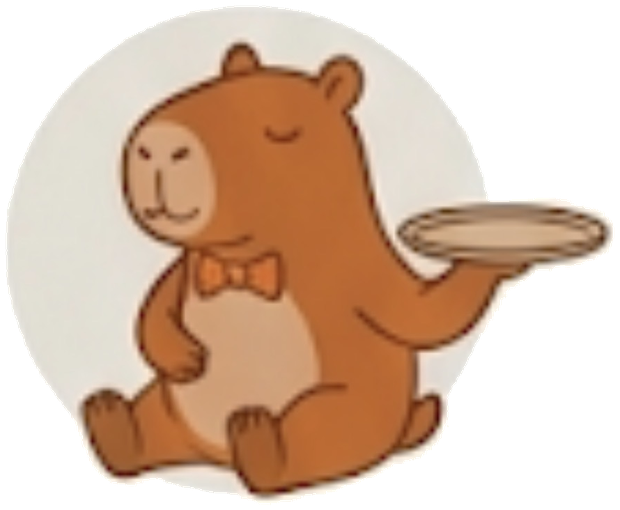
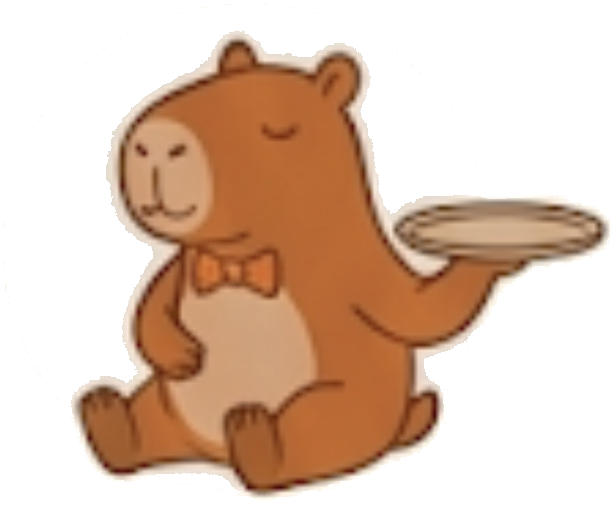
Landing camarero: Capy sentado en el panel de voz (#380)
Usa la ilustracion del Capy sentado con la bandeja para el bloque de
comanda por voz. De paso se le quita el circulo gris de fondo que traia
el asset, que sobre el naranja se veria como un disco; el footer, que usa
la misma imagen, tambien queda mas limpio.

Claude-Session: https://claude.ai/code/session_01UGch5Fry9bRaSMWi61NQWh

diff --git a/src/pages/camaut/CamautLandingPage.jsx b/src/pages/camaut/CamautLandingPage.jsx
@@ -358,10 +358,10 @@ export default function CamautLandingPage() {
           <div className="bg-white border border-carbon-800 rounded-2xl overflow-hidden flex flex-col">
             <div className="p-4 md:p-5 flex items-center justify-center gap-3" style={{ background: '#BD6A35' }}>
               <img
-                src="/capy-mozo.png"
+                src="/capy-mozo-sentado.png"
                 alt="Capy escuchando la comanda dictada"
                 loading="lazy"
-                className="w-20 sm:w-24 h-auto block flex-shrink-0"
+                className="w-24 sm:w-28 h-auto block flex-shrink-0"
               />
               {/* micrófono y ondas de sonido */}
               <svg width="86" height="52" viewBox="0 0 86 52" fill="none" className="flex-shrink-0" aria-hidden="true">
